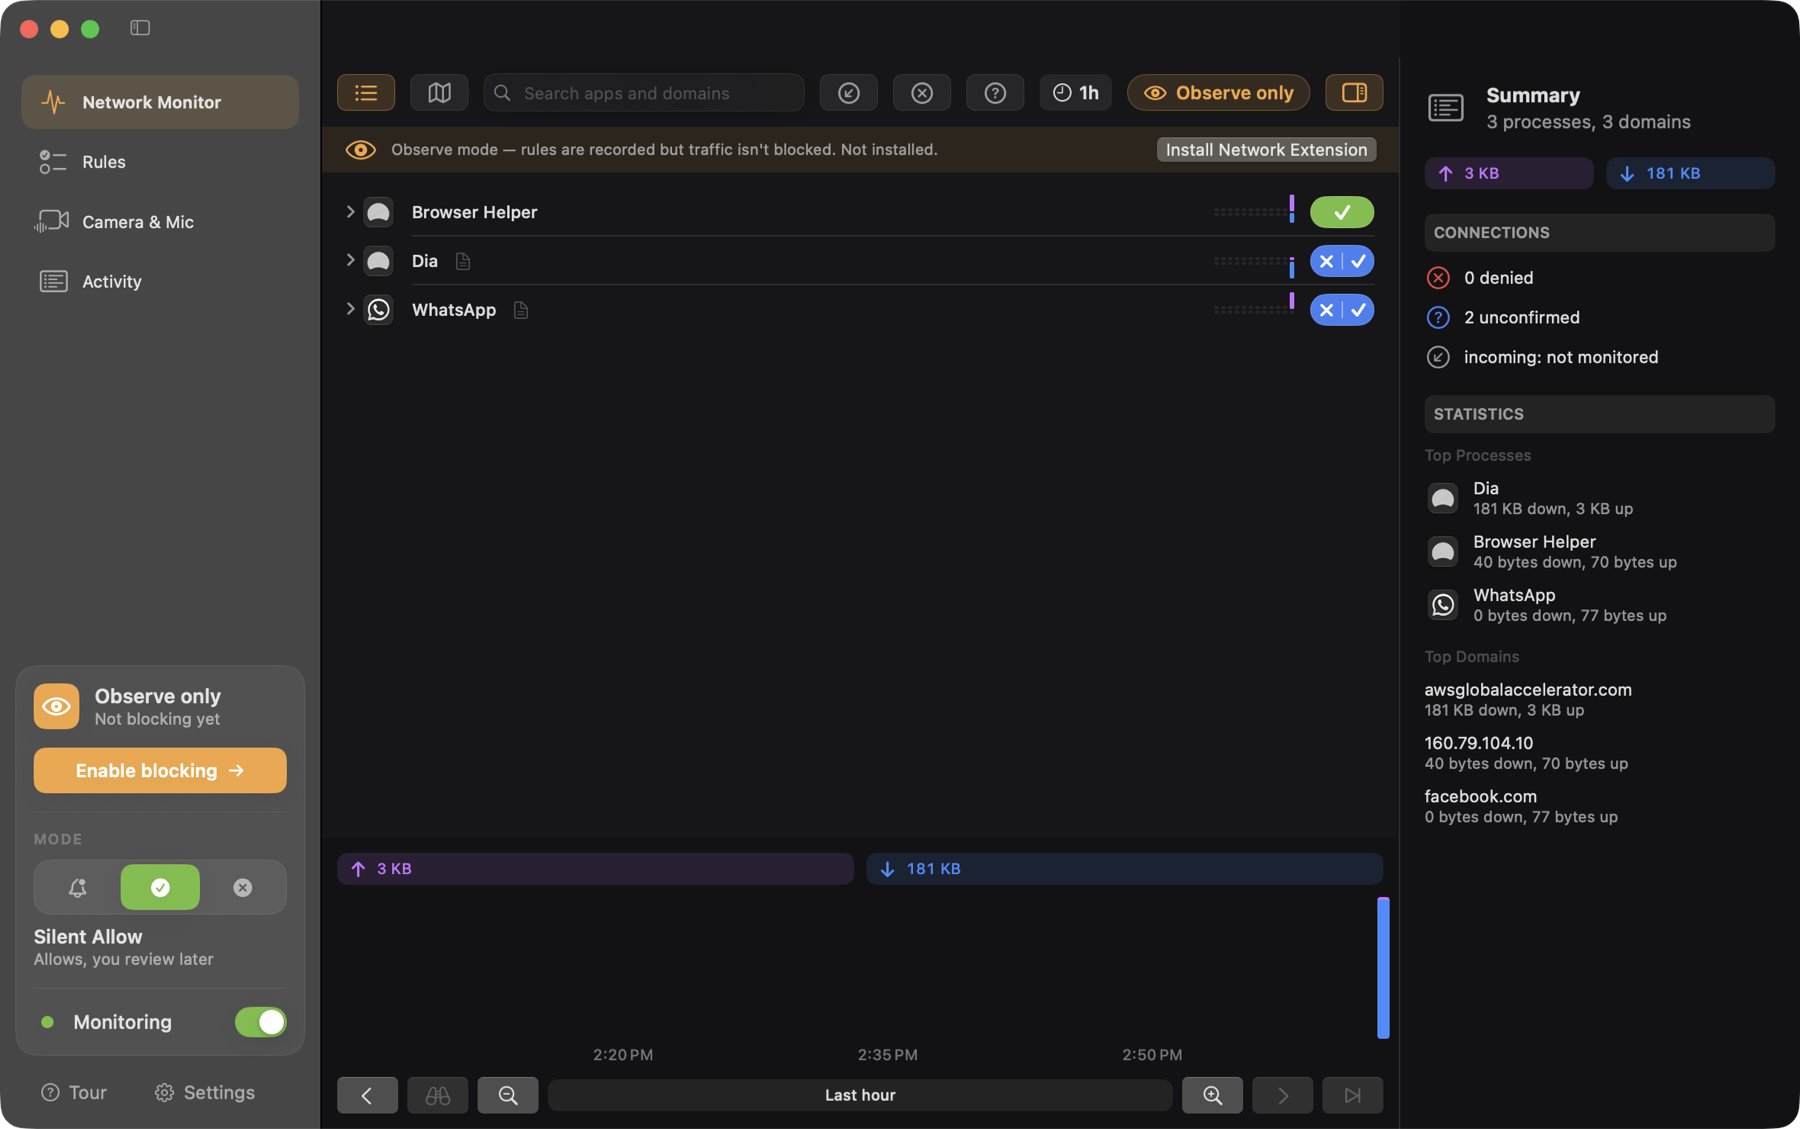
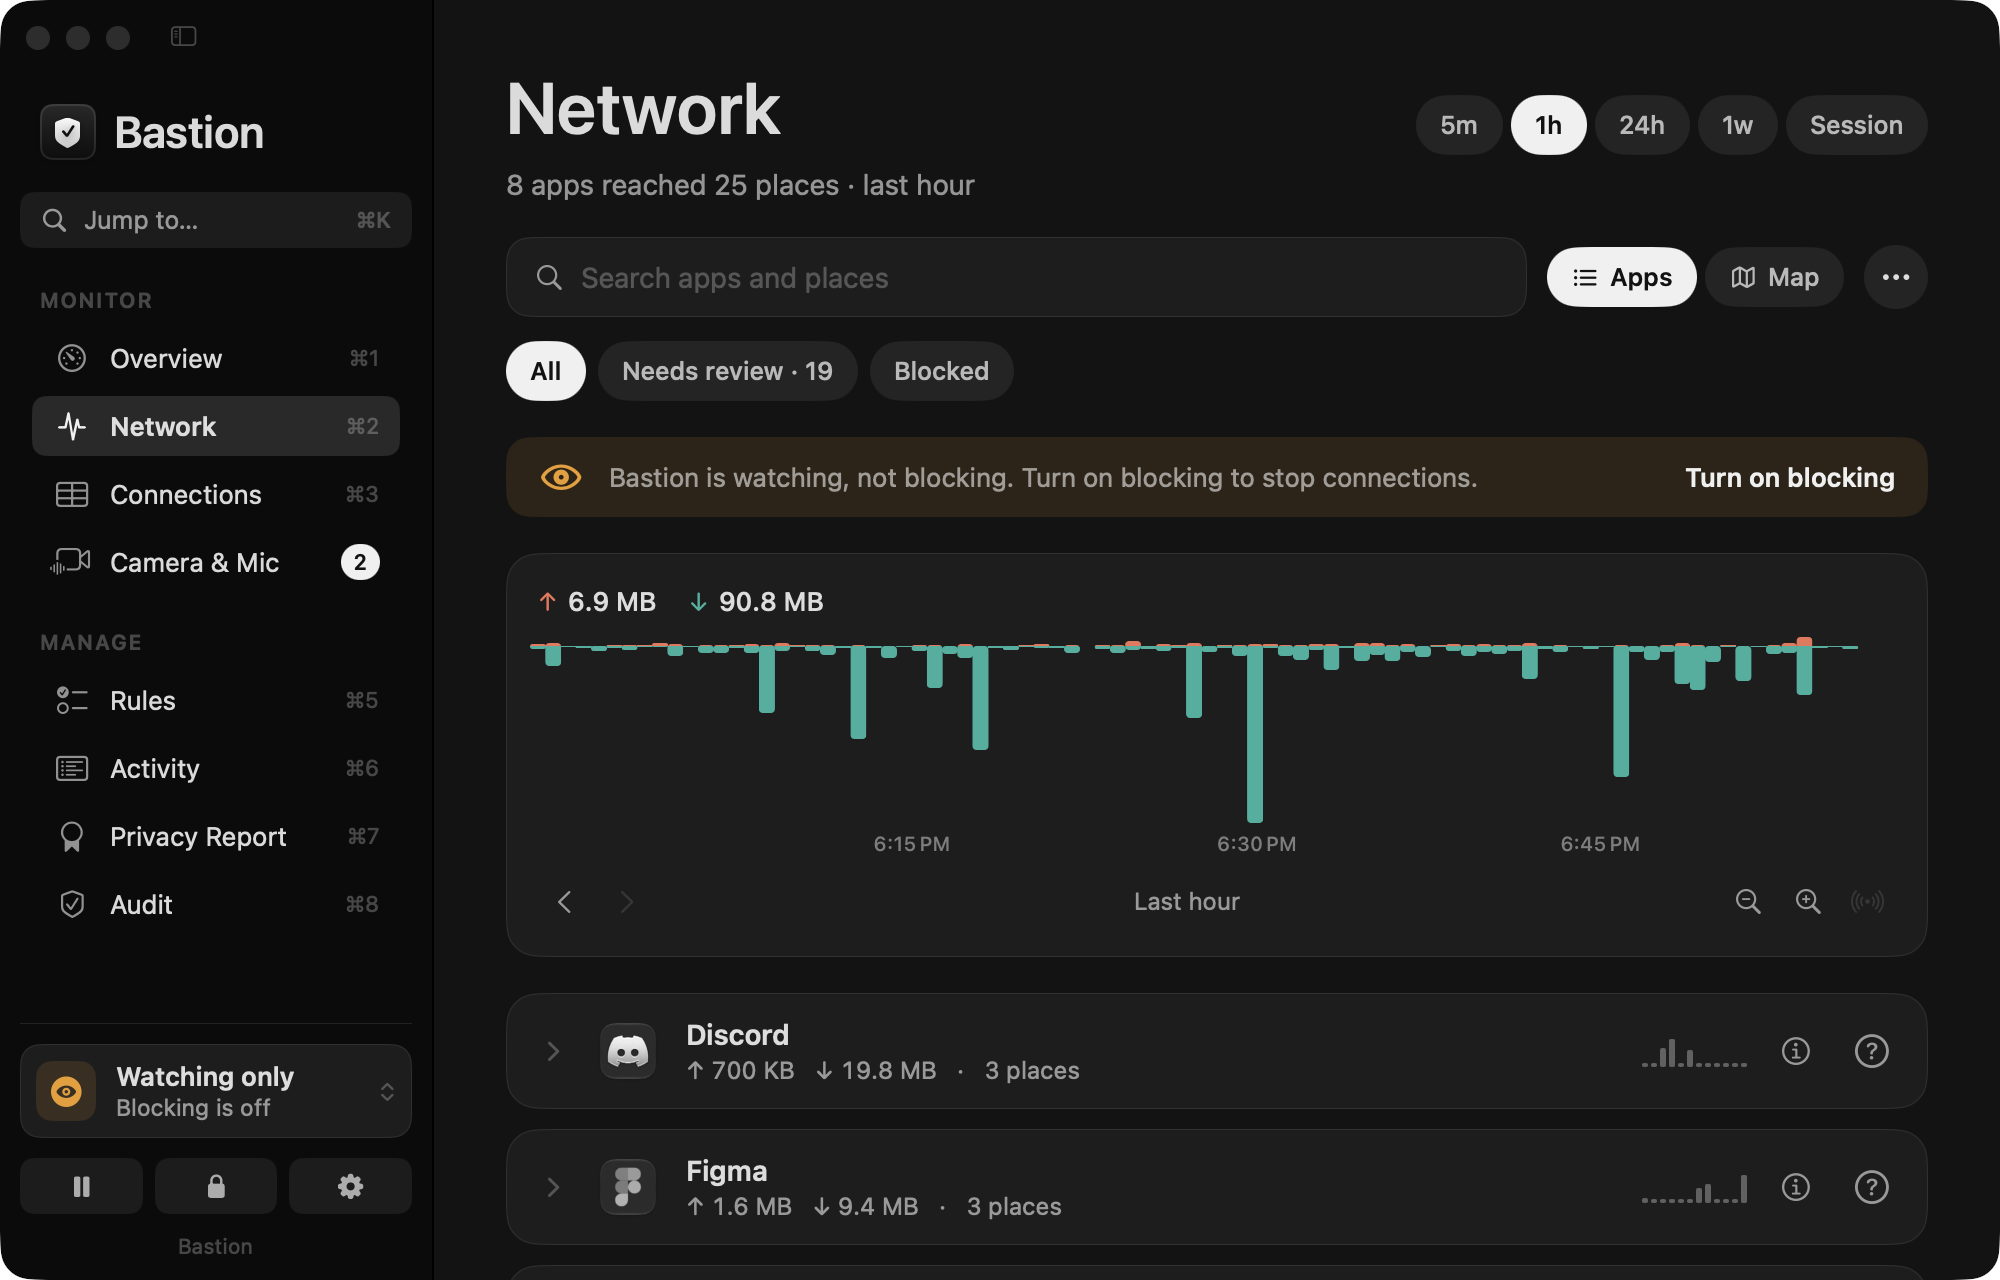
Refresh screenshots for 0.8.0; add Overview and Connections

diff --git a/README.md b/README.md
@@ -58,12 +58,17 @@ There is no account and no cloud. Nothing about your traffic leaves your Mac.
 - Spoken summary on **⌃⌘M**, useful with VoiceOver.
 
 ### Built to feel native
-- Light and dark appearance, a menu-bar popover with live rates, keyboard shortcuts (**⌘1 to ⌘4**, **⌘F**), and a guided first-run setup.
+- Light and dark appearance, a menu-bar popover with live rates, keyboard shortcuts (**⌘1 to ⌘8** for each page, **⌘K** to jump anywhere, **⌘F**), and a guided first-run setup.
 
 <br/>
 
 <p align="center">
   <img src="docs/images/rules-light.png" width="49%" alt="Rules" />
+  <img src="docs/images/connections-light.png" width="49%" alt="Connections" />
+</p>
+
+<p align="center">
+  <img src="docs/images/overview-light.png" width="49%" alt="Overview" />
   <img src="docs/images/onboarding-setup.png" width="49%" alt="Guided setup" />
 </p>
 
